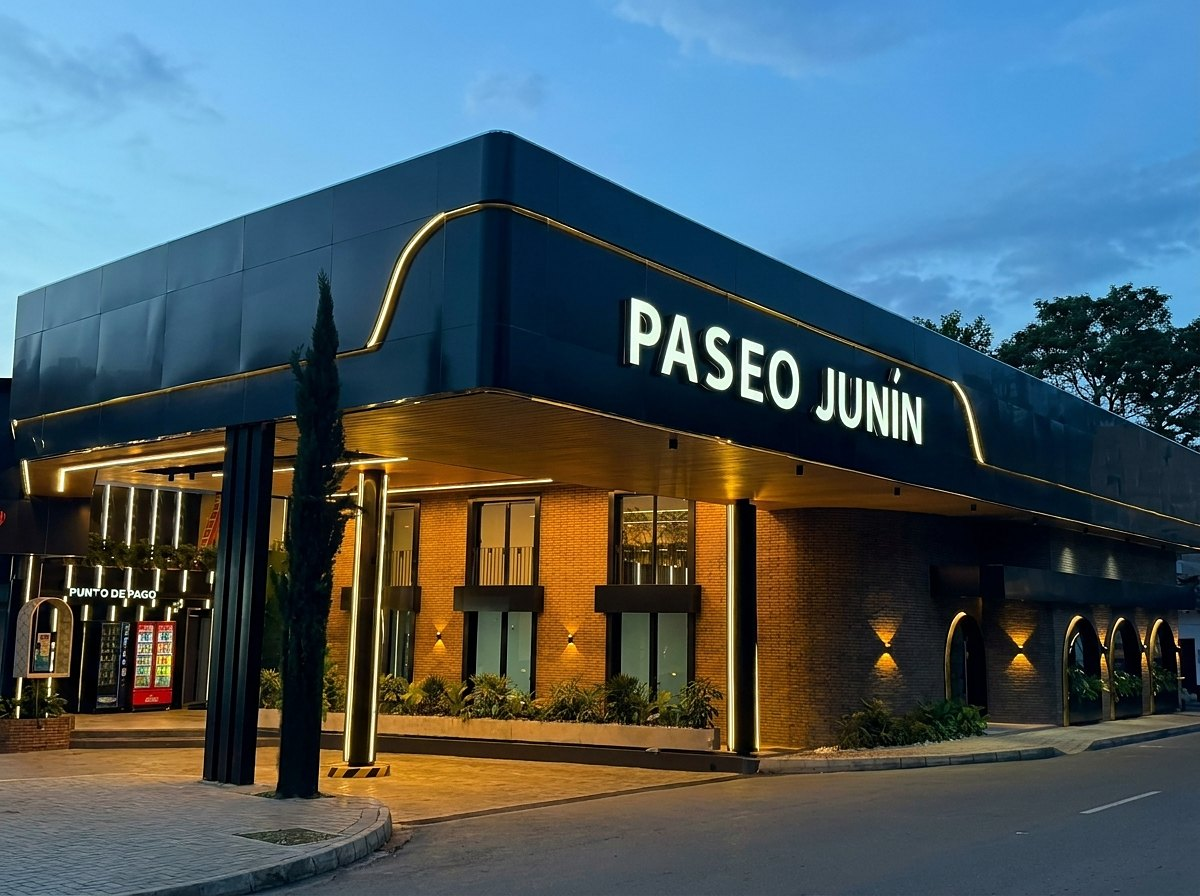
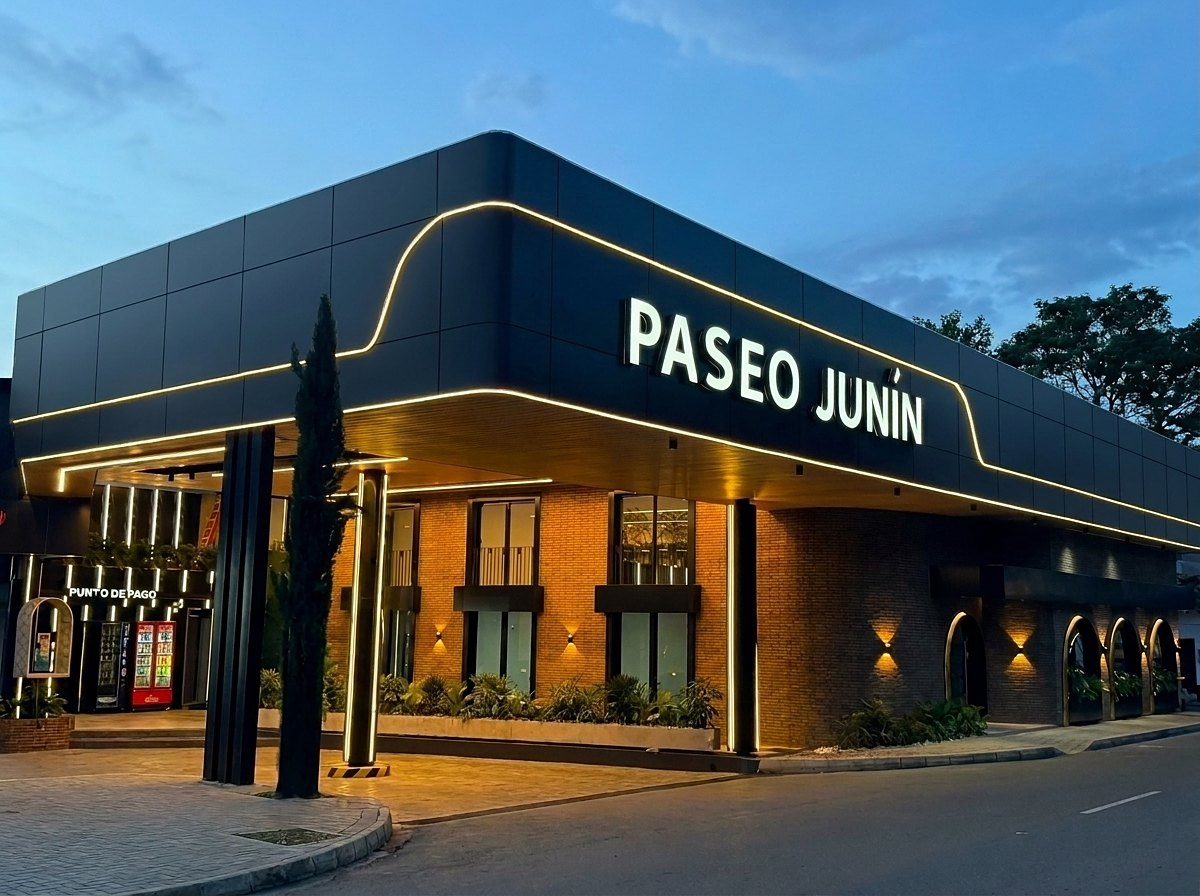
Paseo Junin: refino de luces continuas, paneles planos con juntas marcadas y negro y cafe distintos

diff --git a/docs/404.html b/docs/404.html
@@ -24,7 +24,7 @@
 <link rel="preconnect" href="https://fonts.gstatic.com" crossorigin>
 <link href="https://fonts.googleapis.com/css2?family=Inter:wght@200;300;400;500;600&display=swap" rel="stylesheet">
 <script>document.documentElement.className+=" js";</script>
-<link rel="stylesheet" href="assets/css/site.css?v=20261019124902">
+<link rel="stylesheet" href="assets/css/site.css?v=20261019125455">
 <script type="application/ld+json">
 {
   "@context": "https://schema.org",
@@ -558,6 +558,6 @@
   <svg viewBox="0 0 24 24" fill="currentColor" aria-hidden="true"><path d="M17.5 14.4c-.3-.2-1.7-.9-2-1-.3-.1-.5-.2-.7.1-.2.3-.7 1-.9 1.2-.2.2-.3.2-.6.1-.3-.2-1.2-.5-2.3-1.4-.9-.8-1.4-1.7-1.6-2-.2-.3 0-.5.1-.6l.5-.5c.1-.2.2-.3.3-.5 0-.2 0-.4 0-.5 0-.2-.7-1.6-.9-2.2-.2-.6-.5-.5-.7-.5h-.6c-.2 0-.5.1-.8.4-.3.3-1 1-1 2.5s1.1 2.9 1.2 3.1c.1.2 2.1 3.2 5 4.4.7.3 1.2.5 1.7.6.7.2 1.3.2 1.8.1.6-.1 1.7-.7 1.9-1.4.2-.7.2-1.2.2-1.4-.1-.1-.3-.2-.6-.3z"/><path d="M12 2a10 10 0 0 0-8.6 15.1L2 22l5-1.3A10 10 0 1 0 12 2zm0 18.2c-1.5 0-3-.4-4.3-1.2l-.3-.2-3 .8.8-2.9-.2-.3A8.2 8.2 0 1 1 12 20.2z"/></svg>
 </a>
 
-<script src="assets/js/site.js?v=20261019124902" defer></script>
+<script src="assets/js/site.js?v=20261019125455" defer></script>
 </body>
 </html>

diff --git a/docs/arquitectura-alcance.html b/docs/arquitectura-alcance.html
@@ -24,7 +24,7 @@
 <link rel="preconnect" href="https://fonts.gstatic.com" crossorigin>
 <link href="https://fonts.googleapis.com/css2?family=Inter:wght@200;300;400;500;600&display=swap" rel="stylesheet">
 <script>document.documentElement.className+=" js";</script>
-<link rel="stylesheet" href="assets/css/site.css?v=20261019124902">
+<link rel="stylesheet" href="assets/css/site.css?v=20261019125455">
 <script type="application/ld+json">
 {
   "@context": "https://schema.org",
@@ -273,6 +273,6 @@
   <svg viewBox="0 0 24 24" fill="currentColor" aria-hidden="true"><path d="M17.5 14.4c-.3-.2-1.7-.9-2-1-.3-.1-.5-.2-.7.1-.2.3-.7 1-.9 1.2-.2.2-.3.2-.6.1-.3-.2-1.2-.5-2.3-1.4-.9-.8-1.4-1.7-1.6-2-.2-.3 0-.5.1-.6l.5-.5c.1-.2.2-.3.3-.5 0-.2 0-.4 0-.5 0-.2-.7-1.6-.9-2.2-.2-.6-.5-.5-.7-.5h-.6c-.2 0-.5.1-.8.4-.3.3-1 1-1 2.5s1.1 2.9 1.2 3.1c.1.2 2.1 3.2 5 4.4.7.3 1.2.5 1.7.6.7.2 1.3.2 1.8.1.6-.1 1.7-.7 1.9-1.4.2-.7.2-1.2.2-1.4-.1-.1-.3-.2-.6-.3z"/><path d="M12 2a10 10 0 0 0-8.6 15.1L2 22l5-1.3A10 10 0 1 0 12 2zm0 18.2c-1.5 0-3-.4-4.3-1.2l-.3-.2-3 .8.8-2.9-.2-.3A8.2 8.2 0 1 1 12 20.2z"/></svg>
 </a>
 
-<script src="assets/js/site.js?v=20261019124902" defer></script>
+<script src="assets/js/site.js?v=20261019125455" defer></script>
 </body>
 </html>

diff --git a/docs/arquitectura-corporativa.html b/docs/arquitectura-corporativa.html
@@ -24,7 +24,7 @@
 <link rel="preconnect" href="https://fonts.gstatic.com" crossorigin>
 <link href="https://fonts.googleapis.com/css2?family=Inter:wght@200;300;400;500;600&display=swap" rel="stylesheet">
 <script>document.documentElement.className+=" js";</script>
-<link rel="stylesheet" href="assets/css/site.css?v=20261019124902">
+<link rel="stylesheet" href="assets/css/site.css?v=20261019125455">
 <script type="application/ld+json">
 {
   "@context": "https://schema.org",
@@ -226,6 +226,6 @@
   <svg viewBox="0 0 24 24" fill="currentColor" aria-hidden="true"><path d="M17.5 14.4c-.3-.2-1.7-.9-2-1-.3-.1-.5-.2-.7.1-.2.3-.7 1-.9 1.2-.2.2-.3.2-.6.1-.3-.2-1.2-.5-2.3-1.4-.9-.8-1.4-1.7-1.6-2-.2-.3 0-.5.1-.6l.5-.5c.1-.2.2-.3.3-.5 0-.2 0-.4 0-.5 0-.2-.7-1.6-.9-2.2-.2-.6-.5-.5-.7-.5h-.6c-.2 0-.5.1-.8.4-.3.3-1 1-1 2.5s1.1 2.9 1.2 3.1c.1.2 2.1 3.2 5 4.4.7.3 1.2.5 1.7.6.7.2 1.3.2 1.8.1.6-.1 1.7-.7 1.9-1.4.2-.7.2-1.2.2-1.4-.1-.1-.3-.2-.6-.3z"/><path d="M12 2a10 10 0 0 0-8.6 15.1L2 22l5-1.3A10 10 0 1 0 12 2zm0 18.2c-1.5 0-3-.4-4.3-1.2l-.3-.2-3 .8.8-2.9-.2-.3A8.2 8.2 0 1 1 12 20.2z"/></svg>
 </a>
 
-<script src="assets/js/site.js?v=20261019124902" defer></script>
+<script src="assets/js/site.js?v=20261019125455" defer></script>
 </body>
 </html>

diff --git a/docs/arquitectura-residencial.html b/docs/arquitectura-residencial.html
@@ -24,7 +24,7 @@
 <link rel="preconnect" href="https://fonts.gstatic.com" crossorigin>
 <link href="https://fonts.googleapis.com/css2?family=Inter:wght@200;300;400;500;600&display=swap" rel="stylesheet">
 <script>document.documentElement.className+=" js";</script>
-<link rel="stylesheet" href="assets/css/site.css?v=20261019124902">
+<link rel="stylesheet" href="assets/css/site.css?v=20261019125455">
 <script type="application/ld+json">
 {
   "@context": "https://schema.org",
@@ -226,6 +226,6 @@
   <svg viewBox="0 0 24 24" fill="currentColor" aria-hidden="true"><path d="M17.5 14.4c-.3-.2-1.7-.9-2-1-.3-.1-.5-.2-.7.1-.2.3-.7 1-.9 1.2-.2.2-.3.2-.6.1-.3-.2-1.2-.5-2.3-1.4-.9-.8-1.4-1.7-1.6-2-.2-.3 0-.5.1-.6l.5-.5c.1-.2.2-.3.3-.5 0-.2 0-.4 0-.5 0-.2-.7-1.6-.9-2.2-.2-.6-.5-.5-.7-.5h-.6c-.2 0-.5.1-.8.4-.3.3-1 1-1 2.5s1.1 2.9 1.2 3.1c.1.2 2.1 3.2 5 4.4.7.3 1.2.5 1.7.6.7.2 1.3.2 1.8.1.6-.1 1.7-.7 1.9-1.4.2-.7.2-1.2.2-1.4-.1-.1-.3-.2-.6-.3z"/><path d="M12 2a10 10 0 0 0-8.6 15.1L2 22l5-1.3A10 10 0 1 0 12 2zm0 18.2c-1.5 0-3-.4-4.3-1.2l-.3-.2-3 .8.8-2.9-.2-.3A8.2 8.2 0 1 1 12 20.2z"/></svg>
 </a>
 
-<script src="assets/js/site.js?v=20261019124902" defer></script>
+<script src="assets/js/site.js?v=20261019125455" defer></script>
 </body>
 </html>

diff --git a/docs/burbujas.html b/docs/burbujas.html
@@ -24,7 +24,7 @@
 <link rel="preconnect" href="https://fonts.gstatic.com" crossorigin>
 <link href="https://fonts.googleapis.com/css2?family=Inter:wght@200;300;400;500;600&display=swap" rel="stylesheet">
 <script>document.documentElement.className+=" js";</script>
-<link rel="stylesheet" href="assets/css/site.css?v=20261019124902">
+<link rel="stylesheet" href="assets/css/site.css?v=20261019125455">
 <script type="application/ld+json">
 {
   "@context": "https://schema.org",
@@ -382,6 +382,6 @@
   <svg viewBox="0 0 24 24" fill="currentColor" aria-hidden="true"><path d="M17.5 14.4c-.3-.2-1.7-.9-2-1-.3-.1-.5-.2-.7.1-.2.3-.7 1-.9 1.2-.2.2-.3.2-.6.1-.3-.2-1.2-.5-2.3-1.4-.9-.8-1.4-1.7-1.6-2-.2-.3 0-.5.1-.6l.5-.5c.1-.2.2-.3.3-.5 0-.2 0-.4 0-.5 0-.2-.7-1.6-.9-2.2-.2-.6-.5-.5-.7-.5h-.6c-.2 0-.5.1-.8.4-.3.3-1 1-1 2.5s1.1 2.9 1.2 3.1c.1.2 2.1 3.2 5 4.4.7.3 1.2.5 1.7.6.7.2 1.3.2 1.8.1.6-.1 1.7-.7 1.9-1.4.2-.7.2-1.2.2-1.4-.1-.1-.3-.2-.6-.3z"/><path d="M12 2a10 10 0 0 0-8.6 15.1L2 22l5-1.3A10 10 0 1 0 12 2zm0 18.2c-1.5 0-3-.4-4.3-1.2l-.3-.2-3 .8.8-2.9-.2-.3A8.2 8.2 0 1 1 12 20.2z"/></svg>
 </a>
 
-<script src="assets/js/site.js?v=20261019124902" defer></script>
+<script src="assets/js/site.js?v=20261019125455" defer></script>
 </body>
 </html>

diff --git a/docs/catalogos.html b/docs/catalogos.html
@@ -24,7 +24,7 @@
 <link rel="preconnect" href="https://fonts.gstatic.com" crossorigin>
 <link href="https://fonts.googleapis.com/css2?family=Inter:wght@200;300;400;500;600&display=swap" rel="stylesheet">
 <script>document.documentElement.className+=" js";</script>
-<link rel="stylesheet" href="assets/css/site.css?v=20261019124902">
+<link rel="stylesheet" href="assets/css/site.css?v=20261019125455">
 <script type="application/ld+json">
 {
   "@context": "https://schema.org",
@@ -249,6 +249,6 @@
   <svg viewBox="0 0 24 24" fill="currentColor" aria-hidden="true"><path d="M17.5 14.4c-.3-.2-1.7-.9-2-1-.3-.1-.5-.2-.7.1-.2.3-.7 1-.9 1.2-.2.2-.3.2-.6.1-.3-.2-1.2-.5-2.3-1.4-.9-.8-1.4-1.7-1.6-2-.2-.3 0-.5.1-.6l.5-.5c.1-.2.2-.3.3-.5 0-.2 0-.4 0-.5 0-.2-.7-1.6-.9-2.2-.2-.6-.5-.5-.7-.5h-.6c-.2 0-.5.1-.8.4-.3.3-1 1-1 2.5s1.1 2.9 1.2 3.1c.1.2 2.1 3.2 5 4.4.7.3 1.2.5 1.7.6.7.2 1.3.2 1.8.1.6-.1 1.7-.7 1.9-1.4.2-.7.2-1.2.2-1.4-.1-.1-.3-.2-.6-.3z"/><path d="M12 2a10 10 0 0 0-8.6 15.1L2 22l5-1.3A10 10 0 1 0 12 2zm0 18.2c-1.5 0-3-.4-4.3-1.2l-.3-.2-3 .8.8-2.9-.2-.3A8.2 8.2 0 1 1 12 20.2z"/></svg>
 </a>
 
-<script src="assets/js/site.js?v=20261019124902" defer></script>
+<script src="assets/js/site.js?v=20261019125455" defer></script>
 </body>
 </html>

diff --git a/docs/clientes.html b/docs/clientes.html
@@ -24,7 +24,7 @@
 <link rel="preconnect" href="https://fonts.gstatic.com" crossorigin>
 <link href="https://fonts.googleapis.com/css2?family=Inter:wght@200;300;400;500;600&display=swap" rel="stylesheet">
 <script>document.documentElement.className+=" js";</script>
-<link rel="stylesheet" href="assets/css/site.css?v=20261019124902">
+<link rel="stylesheet" href="assets/css/site.css?v=20261019125455">
 <script type="application/ld+json">
 {
   "@context": "https://schema.org",
@@ -234,6 +234,6 @@
   <svg viewBox="0 0 24 24" fill="currentColor" aria-hidden="true"><path d="M17.5 14.4c-.3-.2-1.7-.9-2-1-.3-.1-.5-.2-.7.1-.2.3-.7 1-.9 1.2-.2.2-.3.2-.6.1-.3-.2-1.2-.5-2.3-1.4-.9-.8-1.4-1.7-1.6-2-.2-.3 0-.5.1-.6l.5-.5c.1-.2.2-.3.3-.5 0-.2 0-.4 0-.5 0-.2-.7-1.6-.9-2.2-.2-.6-.5-.5-.7-.5h-.6c-.2 0-.5.1-.8.4-.3.3-1 1-1 2.5s1.1 2.9 1.2 3.1c.1.2 2.1 3.2 5 4.4.7.3 1.2.5 1.7.6.7.2 1.3.2 1.8.1.6-.1 1.7-.7 1.9-1.4.2-.7.2-1.2.2-1.4-.1-.1-.3-.2-.6-.3z"/><path d="M12 2a10 10 0 0 0-8.6 15.1L2 22l5-1.3A10 10 0 1 0 12 2zm0 18.2c-1.5 0-3-.4-4.3-1.2l-.3-.2-3 .8.8-2.9-.2-.3A8.2 8.2 0 1 1 12 20.2z"/></svg>
 </a>
 
-<script src="assets/js/site.js?v=20261019124902" defer></script>
+<script src="assets/js/site.js?v=20261019125455" defer></script>
 </body>
 </html>

diff --git a/docs/contacto.html b/docs/contacto.html
@@ -24,7 +24,7 @@
 <link rel="preconnect" href="https://fonts.gstatic.com" crossorigin>
 <link href="https://fonts.googleapis.com/css2?family=Inter:wght@200;300;400;500;600&display=swap" rel="stylesheet">
 <script>document.documentElement.className+=" js";</script>
-<link rel="stylesheet" href="assets/css/site.css?v=20261019124902">
+<link rel="stylesheet" href="assets/css/site.css?v=20261019125455">
 <script type="application/ld+json">
 {
   "@context": "https://schema.org",
@@ -292,6 +292,6 @@
   <svg viewBox="0 0 24 24" fill="currentColor" aria-hidden="true"><path d="M17.5 14.4c-.3-.2-1.7-.9-2-1-.3-.1-.5-.2-.7.1-.2.3-.7 1-.9 1.2-.2.2-.3.2-.6.1-.3-.2-1.2-.5-2.3-1.4-.9-.8-1.4-1.7-1.6-2-.2-.3 0-.5.1-.6l.5-.5c.1-.2.2-.3.3-.5 0-.2 0-.4 0-.5 0-.2-.7-1.6-.9-2.2-.2-.6-.5-.5-.7-.5h-.6c-.2 0-.5.1-.8.4-.3.3-1 1-1 2.5s1.1 2.9 1.2 3.1c.1.2 2.1 3.2 5 4.4.7.3 1.2.5 1.7.6.7.2 1.3.2 1.8.1.6-.1 1.7-.7 1.9-1.4.2-.7.2-1.2.2-1.4-.1-.1-.3-.2-.6-.3z"/><path d="M12 2a10 10 0 0 0-8.6 15.1L2 22l5-1.3A10 10 0 1 0 12 2zm0 18.2c-1.5 0-3-.4-4.3-1.2l-.3-.2-3 .8.8-2.9-.2-.3A8.2 8.2 0 1 1 12 20.2z"/></svg>
 </a>
 
-<script src="assets/js/site.js?v=20261019124902" defer></script>
+<script src="assets/js/site.js?v=20261019125455" defer></script>
 </body>
 </html>

diff --git a/docs/estudio-de-arquitectura.html b/docs/estudio-de-arquitectura.html
@@ -24,7 +24,7 @@
 <link rel="preconnect" href="https://fonts.gstatic.com" crossorigin>
 <link href="https://fonts.googleapis.com/css2?family=Inter:wght@200;300;400;500;600&display=swap" rel="stylesheet">
 <script>document.documentElement.className+=" js";</script>
-<link rel="stylesheet" href="assets/css/site.css?v=20261019124902">
+<link rel="stylesheet" href="assets/css/site.css?v=20261019125455">
 <script type="application/ld+json">
 {
   "@context": "https://schema.org",
@@ -475,6 +475,6 @@
   <svg viewBox="0 0 24 24" fill="currentColor" aria-hidden="true"><path d="M17.5 14.4c-.3-.2-1.7-.9-2-1-.3-.1-.5-.2-.7.1-.2.3-.7 1-.9 1.2-.2.2-.3.2-.6.1-.3-.2-1.2-.5-2.3-1.4-.9-.8-1.4-1.7-1.6-2-.2-.3 0-.5.1-.6l.5-.5c.1-.2.2-.3.3-.5 0-.2 0-.4 0-.5 0-.2-.7-1.6-.9-2.2-.2-.6-.5-.5-.7-.5h-.6c-.2 0-.5.1-.8.4-.3.3-1 1-1 2.5s1.1 2.9 1.2 3.1c.1.2 2.1 3.2 5 4.4.7.3 1.2.5 1.7.6.7.2 1.3.2 1.8.1.6-.1 1.7-.7 1.9-1.4.2-.7.2-1.2.2-1.4-.1-.1-.3-.2-.6-.3z"/><path d="M12 2a10 10 0 0 0-8.6 15.1L2 22l5-1.3A10 10 0 1 0 12 2zm0 18.2c-1.5 0-3-.4-4.3-1.2l-.3-.2-3 .8.8-2.9-.2-.3A8.2 8.2 0 1 1 12 20.2z"/></svg>
 </a>
 
-<script src="assets/js/site.js?v=20261019124902" defer></script>
+<script src="assets/js/site.js?v=20261019125455" defer></script>
 </body>
 </html>

diff --git a/docs/fachadas.html b/docs/fachadas.html
@@ -24,7 +24,7 @@
 <link rel="preconnect" href="https://fonts.gstatic.com" crossorigin>
 <link href="https://fonts.googleapis.com/css2?family=Inter:wght@200;300;400;500;600&display=swap" rel="stylesheet">
 <script>document.documentElement.className+=" js";</script>
-<link rel="stylesheet" href="assets/css/site.css?v=20261019124902">
+<link rel="stylesheet" href="assets/css/site.css?v=20261019125455">
 <script type="application/ld+json">
 {
   "@context": "https://schema.org",
@@ -448,6 +448,6 @@
   <svg viewBox="0 0 24 24" fill="currentColor" aria-hidden="true"><path d="M17.5 14.4c-.3-.2-1.7-.9-2-1-.3-.1-.5-.2-.7.1-.2.3-.7 1-.9 1.2-.2.2-.3.2-.6.1-.3-.2-1.2-.5-2.3-1.4-.9-.8-1.4-1.7-1.6-2-.2-.3 0-.5.1-.6l.5-.5c.1-.2.2-.3.3-.5 0-.2 0-.4 0-.5 0-.2-.7-1.6-.9-2.2-.2-.6-.5-.5-.7-.5h-.6c-.2 0-.5.1-.8.4-.3.3-1 1-1 2.5s1.1 2.9 1.2 3.1c.1.2 2.1 3.2 5 4.4.7.3 1.2.5 1.7.6.7.2 1.3.2 1.8.1.6-.1 1.7-.7 1.9-1.4.2-.7.2-1.2.2-1.4-.1-.1-.3-.2-.6-.3z"/><path d="M12 2a10 10 0 0 0-8.6 15.1L2 22l5-1.3A10 10 0 1 0 12 2zm0 18.2c-1.5 0-3-.4-4.3-1.2l-.3-.2-3 .8.8-2.9-.2-.3A8.2 8.2 0 1 1 12 20.2z"/></svg>
 </a>
 
-<script src="assets/js/site.js?v=20261019124902" defer></script>
+<script src="assets/js/site.js?v=20261019125455" defer></script>
 </body>
 </html>

diff --git a/docs/index.html b/docs/index.html
@@ -24,7 +24,7 @@
 <link rel="preconnect" href="https://fonts.gstatic.com" crossorigin>
 <link href="https://fonts.googleapis.com/css2?family=Inter:wght@200;300;400;500;600&display=swap" rel="stylesheet">
 <script>document.documentElement.className+=" js";</script>
-<link rel="stylesheet" href="assets/css/site.css?v=20261019124902">
+<link rel="stylesheet" href="assets/css/site.css?v=20261019125455">
 <script type="application/ld+json">
 {
   "@context": "https://schema.org",
@@ -558,6 +558,6 @@
   <svg viewBox="0 0 24 24" fill="currentColor" aria-hidden="true"><path d="M17.5 14.4c-.3-.2-1.7-.9-2-1-.3-.1-.5-.2-.7.1-.2.3-.7 1-.9 1.2-.2.2-.3.2-.6.1-.3-.2-1.2-.5-2.3-1.4-.9-.8-1.4-1.7-1.6-2-.2-.3 0-.5.1-.6l.5-.5c.1-.2.2-.3.3-.5 0-.2 0-.4 0-.5 0-.2-.7-1.6-.9-2.2-.2-.6-.5-.5-.7-.5h-.6c-.2 0-.5.1-.8.4-.3.3-1 1-1 2.5s1.1 2.9 1.2 3.1c.1.2 2.1 3.2 5 4.4.7.3 1.2.5 1.7.6.7.2 1.3.2 1.8.1.6-.1 1.7-.7 1.9-1.4.2-.7.2-1.2.2-1.4-.1-.1-.3-.2-.6-.3z"/><path d="M12 2a10 10 0 0 0-8.6 15.1L2 22l5-1.3A10 10 0 1 0 12 2zm0 18.2c-1.5 0-3-.4-4.3-1.2l-.3-.2-3 .8.8-2.9-.2-.3A8.2 8.2 0 1 1 12 20.2z"/></svg>
 </a>
 
-<script src="assets/js/site.js?v=20261019124902" defer></script>
+<script src="assets/js/site.js?v=20261019125455" defer></script>
 </body>
 </html>

diff --git a/docs/nosotros.html b/docs/nosotros.html
@@ -24,7 +24,7 @@
 <link rel="preconnect" href="https://fonts.gstatic.com" crossorigin>
 <link href="https://fonts.googleapis.com/css2?family=Inter:wght@200;300;400;500;600&display=swap" rel="stylesheet">
 <script>document.documentElement.className+=" js";</script>
-<link rel="stylesheet" href="assets/css/site.css?v=20261019124902">
+<link rel="stylesheet" href="assets/css/site.css?v=20261019125455">
 <script type="application/ld+json">
 {
   "@context": "https://schema.org",
@@ -275,6 +275,6 @@
   <svg viewBox="0 0 24 24" fill="currentColor" aria-hidden="true"><path d="M17.5 14.4c-.3-.2-1.7-.9-2-1-.3-.1-.5-.2-.7.1-.2.3-.7 1-.9 1.2-.2.2-.3.2-.6.1-.3-.2-1.2-.5-2.3-1.4-.9-.8-1.4-1.7-1.6-2-.2-.3 0-.5.1-.6l.5-.5c.1-.2.2-.3.3-.5 0-.2 0-.4 0-.5 0-.2-.7-1.6-.9-2.2-.2-.6-.5-.5-.7-.5h-.6c-.2 0-.5.1-.8.4-.3.3-1 1-1 2.5s1.1 2.9 1.2 3.1c.1.2 2.1 3.2 5 4.4.7.3 1.2.5 1.7.6.7.2 1.3.2 1.8.1.6-.1 1.7-.7 1.9-1.4.2-.7.2-1.2.2-1.4-.1-.1-.3-.2-.6-.3z"/><path d="M12 2a10 10 0 0 0-8.6 15.1L2 22l5-1.3A10 10 0 1 0 12 2zm0 18.2c-1.5 0-3-.4-4.3-1.2l-.3-.2-3 .8.8-2.9-.2-.3A8.2 8.2 0 1 1 12 20.2z"/></svg>
 </a>
 
-<script src="assets/js/site.js?v=20261019124902" defer></script>
+<script src="assets/js/site.js?v=20261019125455" defer></script>
 </body>
 </html>
